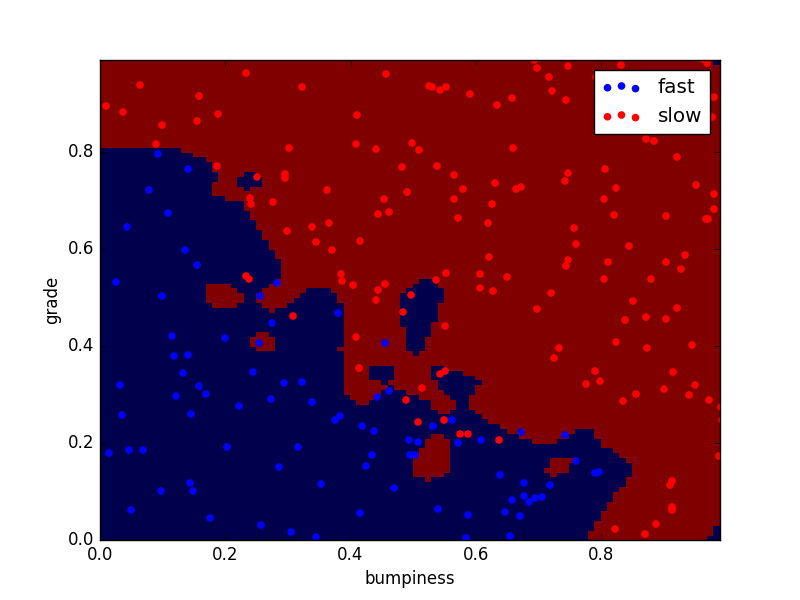
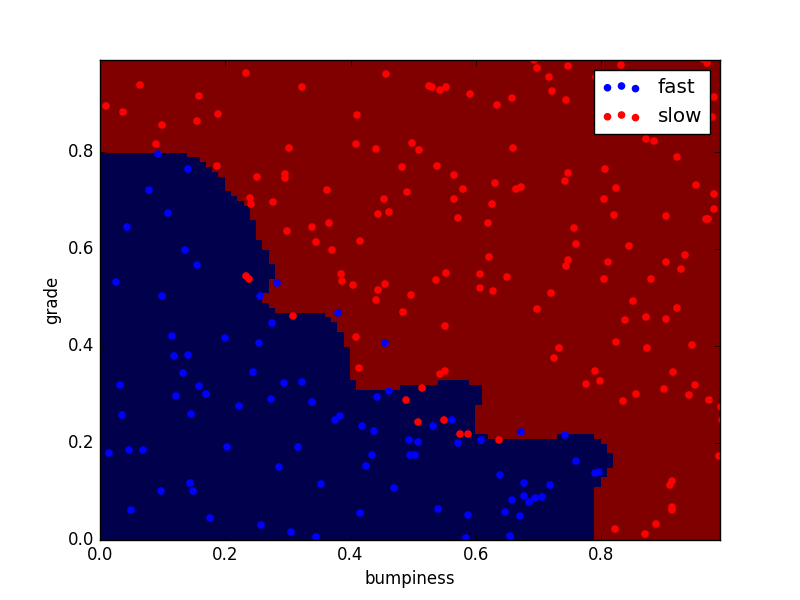
fine tune svm parameters

diff --git a/exercise/Lesson2_SVM/Classifyfunc.py b/exercise/Lesson2_SVM/Classifyfunc.py
@@ -11,8 +11,43 @@ def classify(features_train, labels_train):
     ### create classifier
     ### fit the classifier on the training features and labels
     ### return the fit classifier
-    clf = SVC(kernel='rbf', C=100000, gamma=100)
+#     clf = SVC(kernel='rbf', C=1, gamma=10)
+    clf = SVC(kernel='rbf',C=10,gamma=200)
     clf.fit(features_train, labels_train)
     return clf
         
     
+# kernel='rbf'
+# 
+# testing set accuracy is 0.920000
+# training set accuracy is 0.924000
+# 
+# 
+# kernel='rbf',gamma=10
+# testing set accuracy is 0.932000
+# training set accuracy is 0.95866
+# 
+# kernel='rbf',gamma=100
+# testing set accuracy is 0.936000
+# training set accuracy is 0.966667
+# 
+# 
+# kernel='rbf',C=10,gamma=1000
+# testing set accuracy is 0.916000
+# training set accuracy is 0.996000
+# 
+# kernel='rbf',C=10,gamma=500
+# testing set accuracy is 0.932000
+# training set accuracy is 0.982667
+# 
+# kernel='rbf',C=10,gamma=300
+# testing set accuracy is 0.932000
+# training set accuracy is 0.982667
+# 
+# kernel='rbf',C=10,gamma=200
+# testing set accuracy is 0.948000
+# training set accuracy is 0.977333
+# 
+# kernel='rbf',C=8,gamma=200
+# testing set accuracy is 0.948000
+# training set accuracy is 0.977333

diff --git a/exercise/Lesson2_SVM/digits_main.py b/exercise/Lesson2_SVM/digits_main.py
@@ -1,0 +1,30 @@
+from sklearn import datasets
+from sklearn import svm
+from sklearn.cross_validation import train_test_split
+from sklearn.metrics import accuracy_score
+import numpy as np
+
+#data preparation
+digits = datasets.load_digits()
+features_train, features_test, labels_train, labels_test = train_test_split(digits.data, digits.target, random_state=42)
+unique, counts = np.unique(labels_train, return_counts=True)
+print np.asarray((unique, counts)).T
+
+
+print "training number: %d, testing number: %d original feature num %d" %(len(labels_train), len(labels_test), len(features_train[0]))
+
+clf = svm.SVC(kernel='rbf', C=1000, gamma=0.001)
+
+
+clf.fit(features_train, labels_train)
+
+
+
+y_pred = clf.predict(features_test)
+accuracy = accuracy_score(labels_test,y_pred )
+print "testing set accuracy is %f" %(accuracy)
+
+#for training set
+y_pred=clf.predict(features_train)
+accuracy = accuracy_score(labels_train,y_pred )
+print "training set accuracy is %f" %(accuracy)
